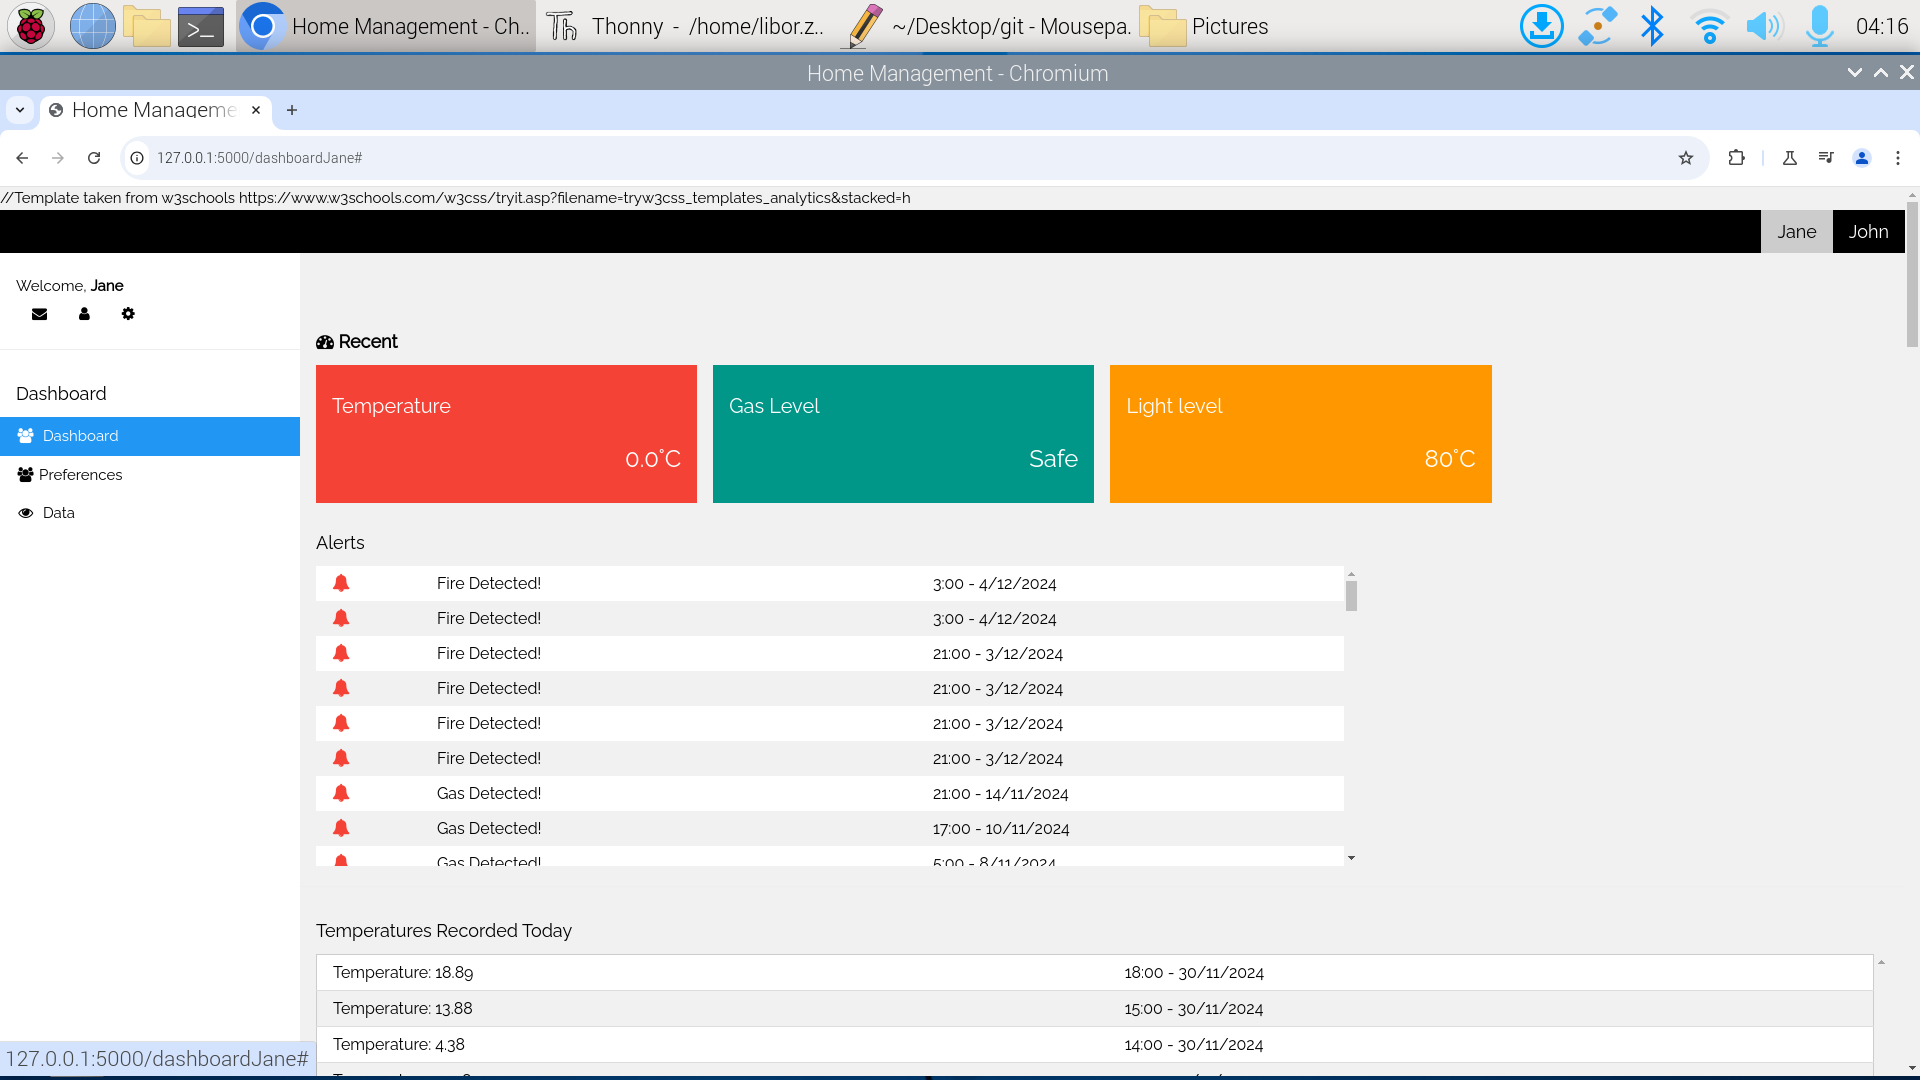
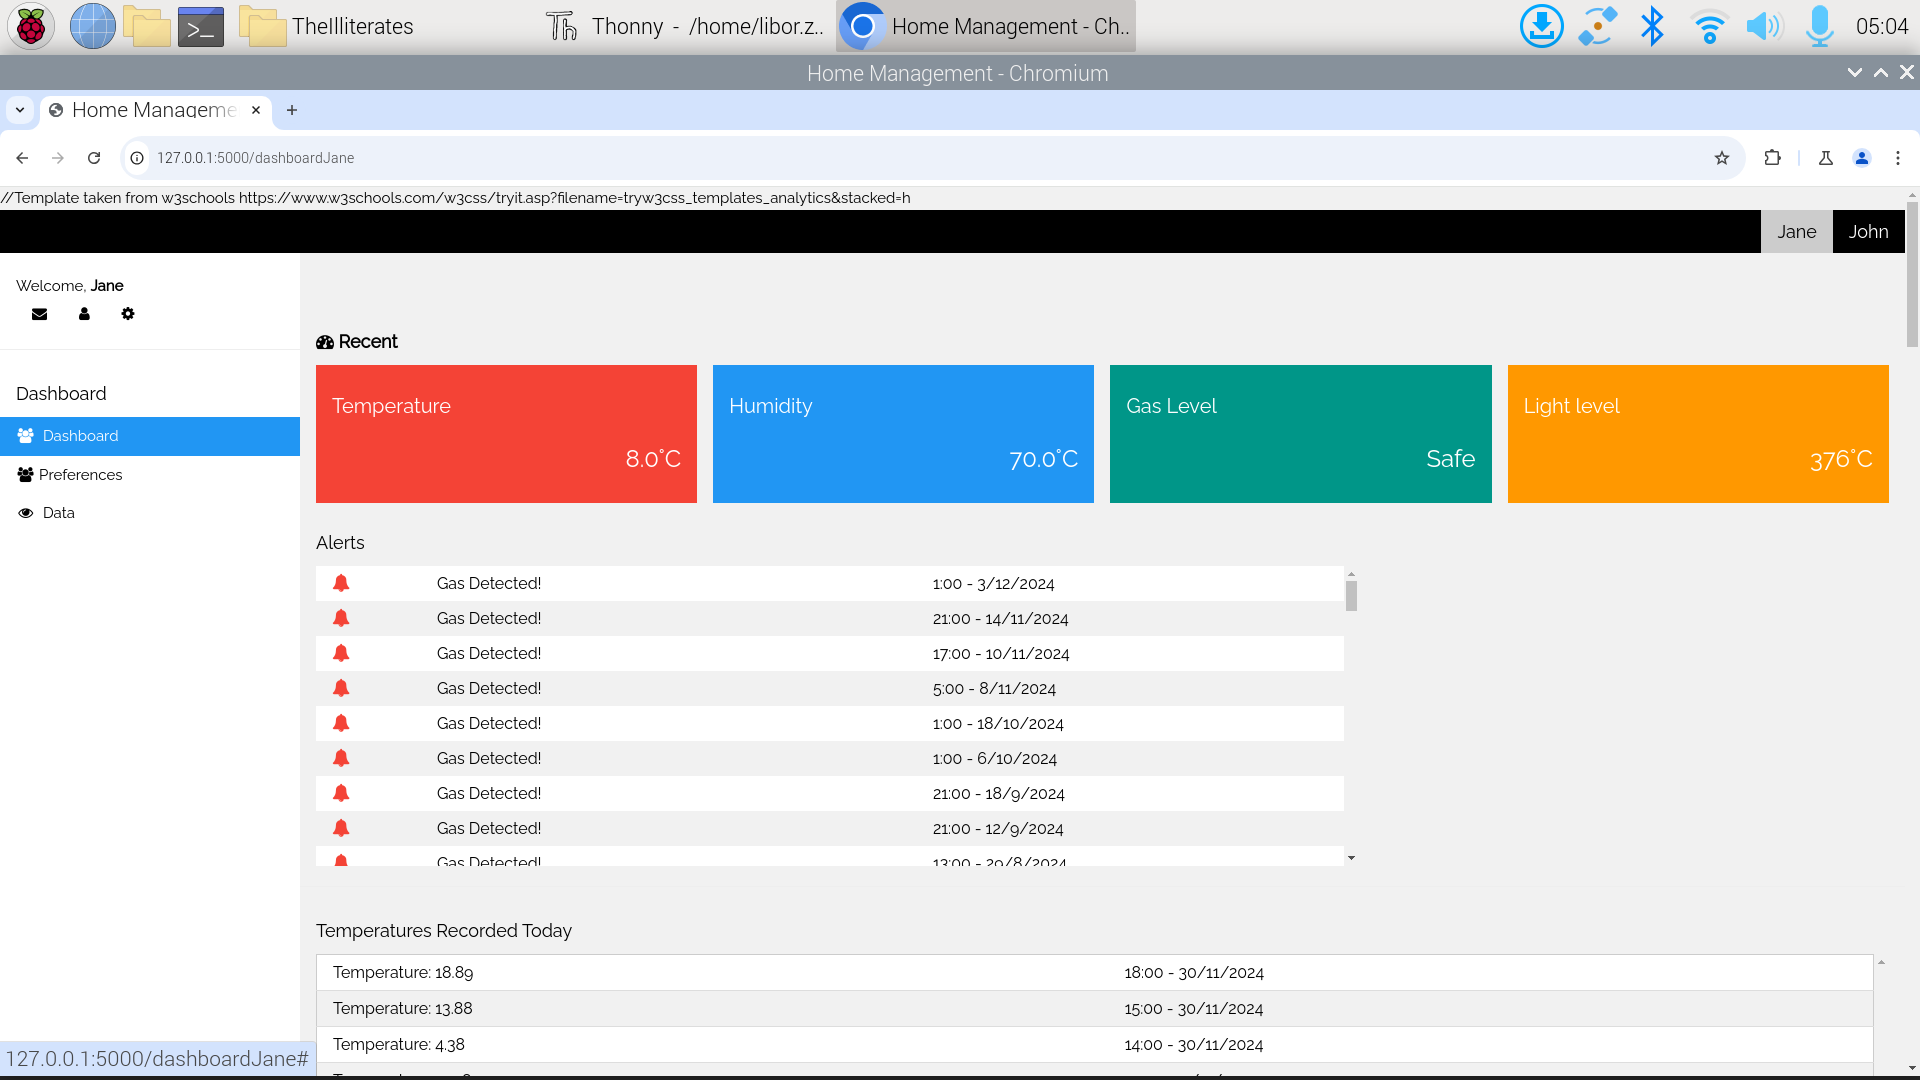
Fixed small mistakes

diff --git a/templates/index.html b/templates/index.html
@@ -78,6 +78,18 @@ html,body,h1,h2,h3,h4,h5 {font-family: "Raleway", sans-serif}
       </div>
     </div>
     <div class="w3-quarter">
+      <div class="w3-container w3-blue w3-padding-16">
+        <div class="w3-left"></i></div>
+        <div class="w3-clear"></div>
+        <h4>Humidity</h4>
+        <div class="w3-right">
+            <h3> 
+                <td>{{ recent['humidity'] }}°C</td>
+            </h3>
+          </div>
+      </div>
+    </div>
+    <div class="w3-quarter">
       <div class="w3-container w3-teal w3-padding-16">
         <div class="w3-left"></i></div>
         <div class="w3-clear"></div>

diff --git a/templates/indexJane.html b/templates/indexJane.html
@@ -75,6 +75,18 @@ html,body,h1,h2,h3,h4,h5 {font-family: "Raleway", sans-serif}
       </div>
     </div>
     <div class="w3-quarter">
+      <div class="w3-container w3-blue w3-padding-16">
+        <div class="w3-left"></i></div>
+        <div class="w3-clear"></div>
+        <h4>Humidity</h4>
+        <div class="w3-right">
+            <h3> 
+                <td>{{ recent['humidity'] }}°C</td>
+            </h3>
+          </div>
+      </div>
+    </div>
+    <div class="w3-quarter">
       <div class="w3-container w3-teal w3-padding-16">
         <div class="w3-left"></i></div>
         <div class="w3-clear"></div>

diff --git a/HomeManager.py b/HomeManager.py
@@ -11,9 +11,9 @@ from sklearn.ensemble import RandomForestRegressor
 import pandas as pd
 import numpy as np
 from sklearn.model_selection import train_test_split
-from sklearn.metrics import mean_squared_error, r2_score
 import warnings
 
+#Stopping warning because pandas does not like pymysql, however it doesn't stop functionality
 warnings.filterwarnings("ignore", category=UserWarning, message="pandas only supports SQLAlchemy connectable")
 
 from_email_addr ="theilliteratespi@gmail.com"
@@ -178,7 +178,7 @@ def update_pref():
     time = datetime.now()
     connection = get_db()
     cursor = connection.cursor()
-    values = ("John", temp, 0, 0, lightLevel, random.uniform(45,70), random.uniform(980,1020), time.month, time.hour, time.day, time.year)
+    values = ("John", temp, 0, 0, lightLevel, random.randint(45,70), random.randint(980,1020), time.month, time.hour, time.day, time.year)
     insert_query = """
     INSERT INTO home (user, temp, gasDetect, fireDetect, lightLevel, humidity, pressure, month, hour, day, year) 
     VALUES (%s, %s, %s, %s, %s, %s, %s, %s, %s, %s, %s)
@@ -191,6 +191,7 @@ def update_pref():
     #reinitialising with extra data
     temp_model, light_model, X = initialize_ml_models()
     return jsonify({"message": "Success!"})
+
 
 @app.route('/dashboardJane')
 def dashJane():
@@ -280,7 +281,7 @@ def update_prefJane():
     time = datetime.now()
     connection = get_db()
     cursor = connection.cursor()
-    values = ("Jane", temp, 0, 0, lightLevel, random.uniform(45,70), random.uniform(980,1020), time.month, time.hour, time.day, time.year)
+    values = ("Jane", temp, 0, 0, lightLevel, random.randint(45,70), random.randint(980,1020), time.month, time.hour, time.day, time.year)
     insert_query = """
     INSERT INTO home (user, temp, gasDetect, fireDetect, lightLevel, humidity, pressure, month, hour, day, year) 
     VALUES (%s, %s, %s, %s, %s, %s, %s, %s, %s, %s, %s)

diff --git a/OldFiles/SaveDataToDatabase.py b/OldFiles/SaveDataToDatabase.py
@@ -39,6 +39,6 @@ import_csv_to_table(
     user="admin",
     password="raspberrypi",
     database="homemanager",
-    table_name="test",
+    table_name="home",
     input_file="AllDatabaseData.csv"
 )
